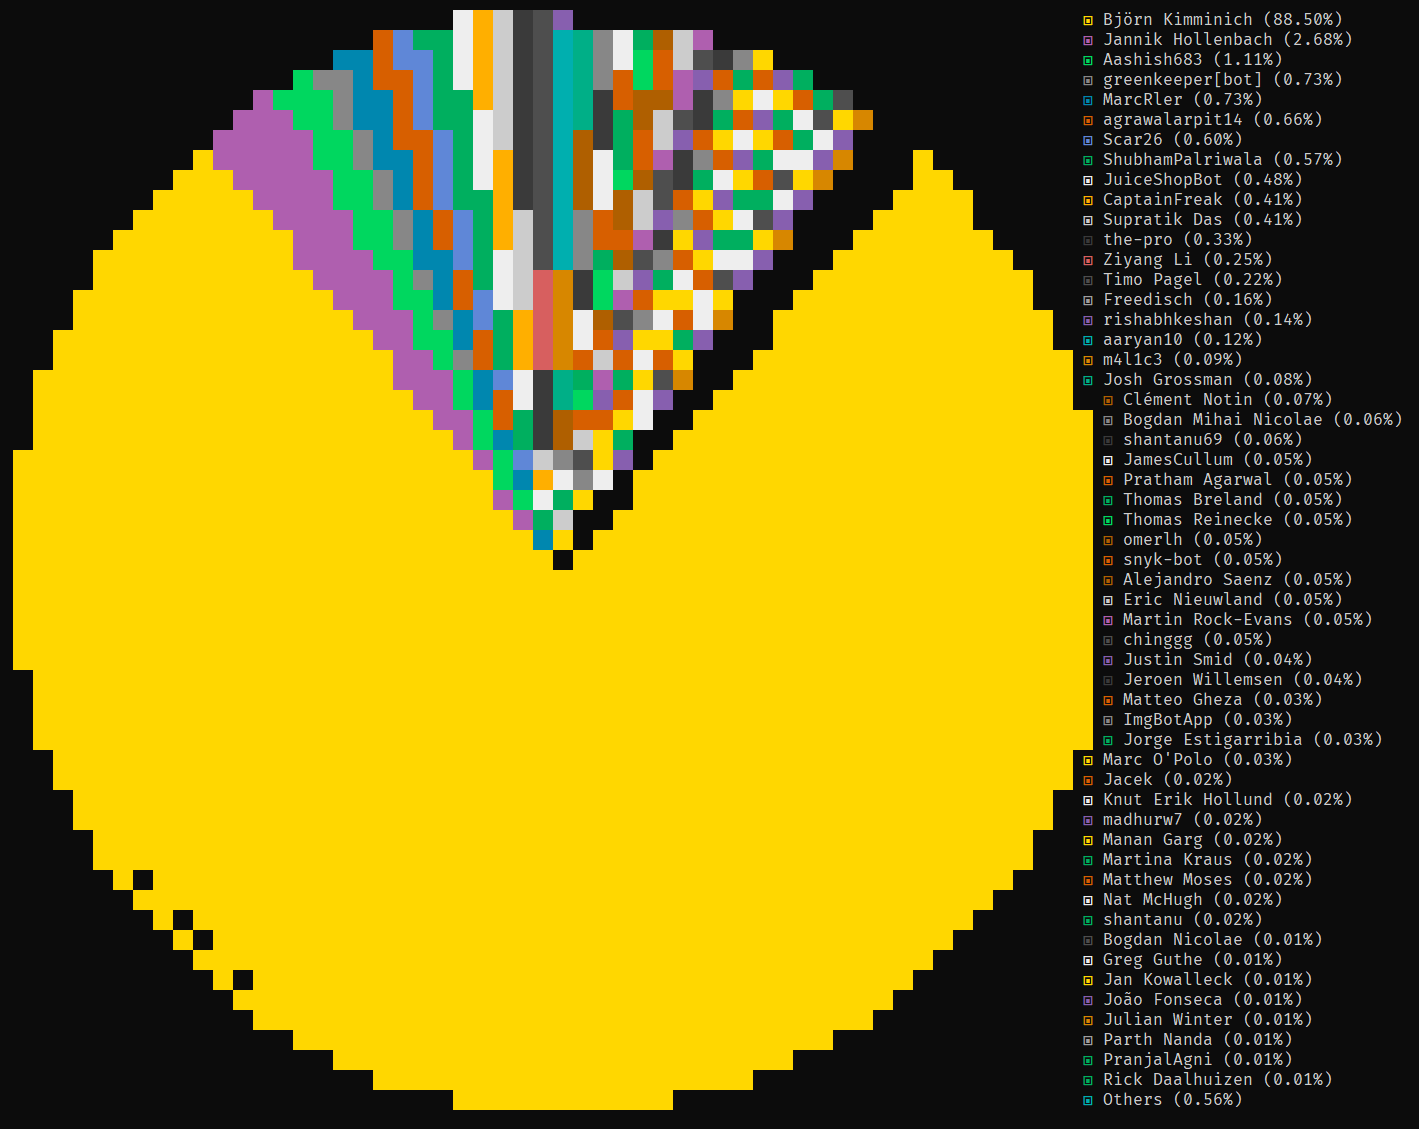
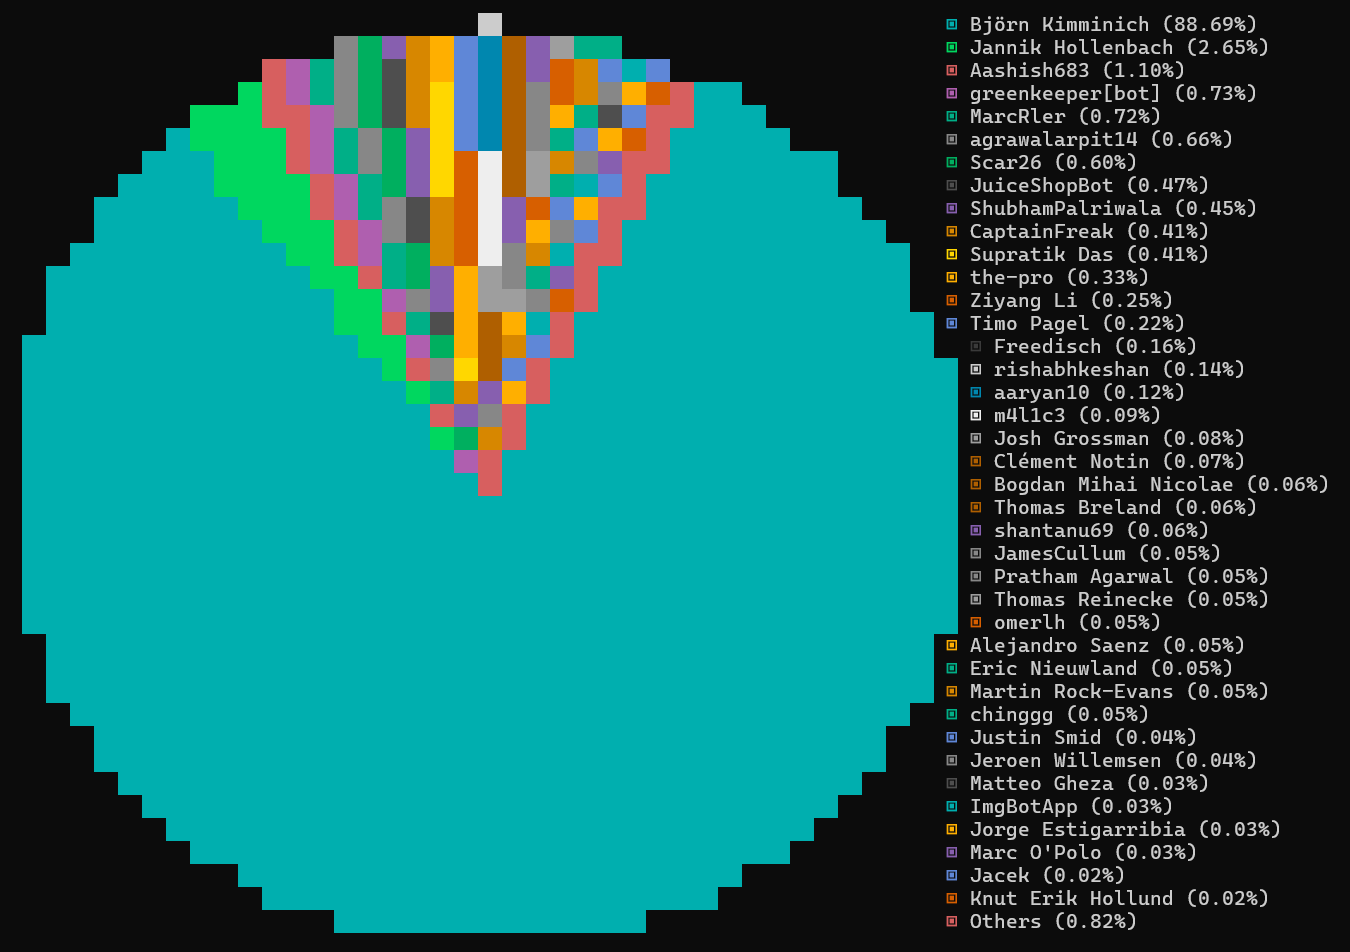
Update GitHub contributor stats

diff --git a/HALL_OF_FAME.md b/HALL_OF_FAME.md
@@ -2,8 +2,8 @@
 
 ## GitHub Contributors
 
-As reported by [`git-stats -a -s '2014'`](https://www.npmjs.com/package/git-stats) analysis of `master` as of Wed, 07 Aug
-2024 after deduplication with `.mailmap`.
+As reported by [`git-stats -a -s '2014'`](https://www.npmjs.com/package/git-stats) analysis of `master` as of Thu, 30 Jan
+2025 after deduplication with `.mailmap`.
 
 ![Top git contributors](screenshots/git-stats.png)
 
